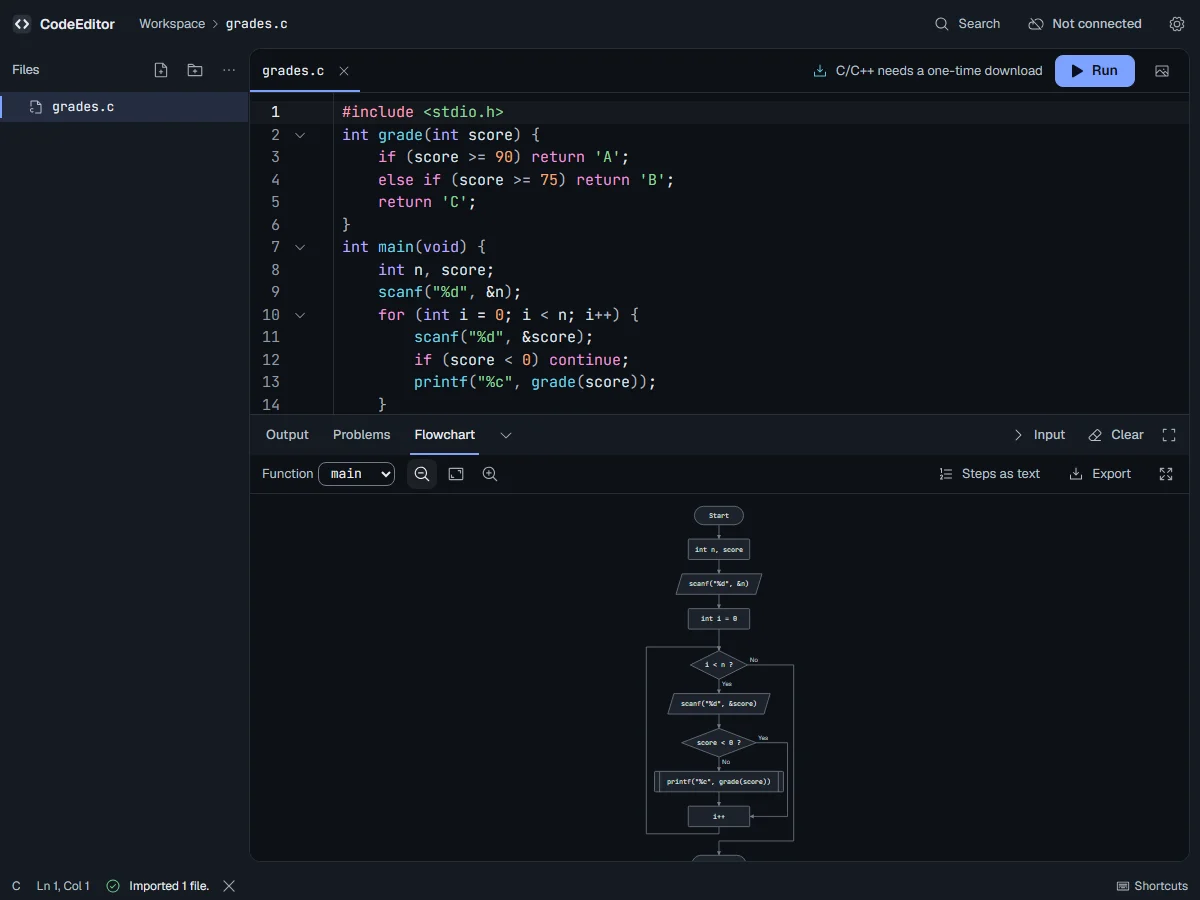
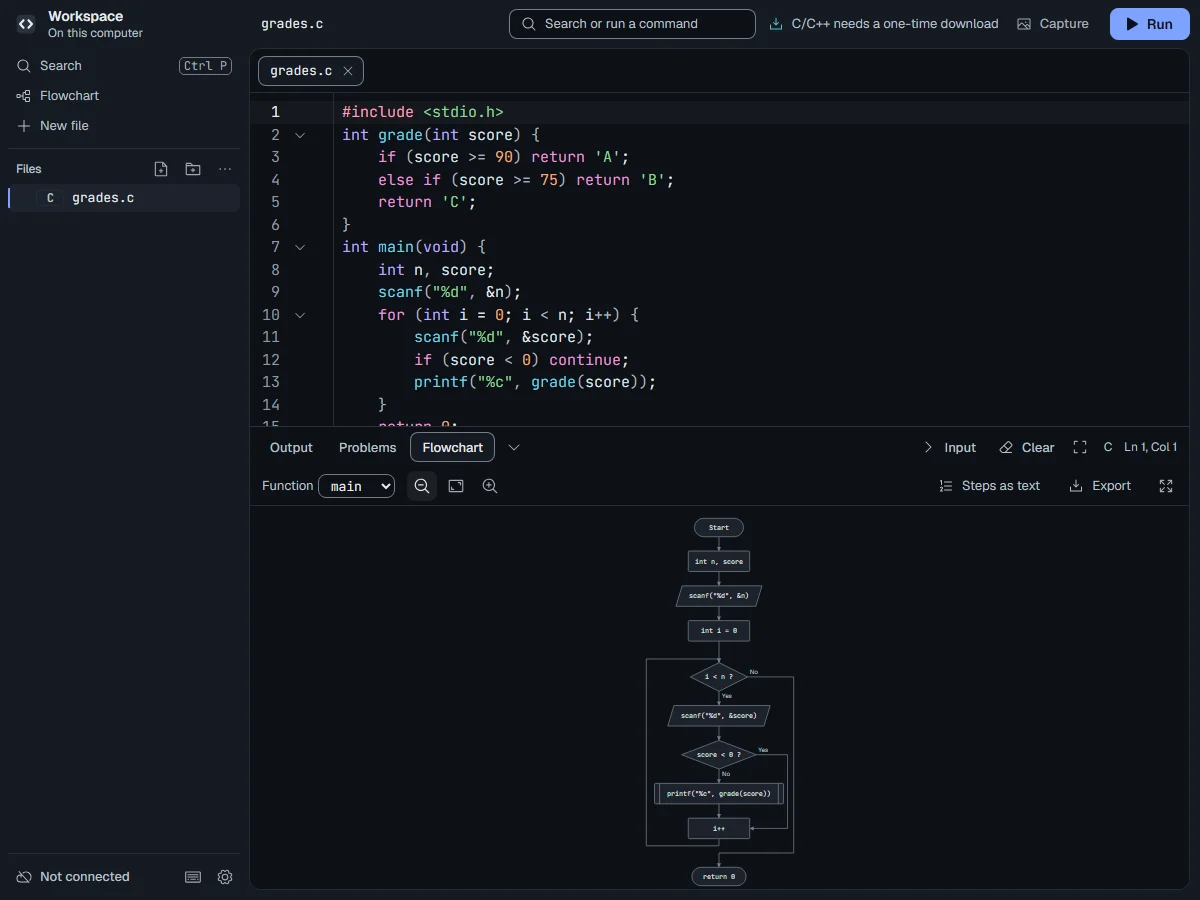
About images from the new shell; the command field's keycap shows from 1280 px so its words fit

diff --git a/src/styles/app.css b/src/styles/app.css
@@ -208,7 +208,9 @@ input::placeholder, textarea::placeholder { color: var(--text-muted); opacity: 1
 .sync-words { overflow: hidden; text-overflow: ellipsis; white-space: nowrap; }
 .drawer-toggle { display: none; }
 .palette-key { display: none; }
-@media (min-width: 900px) { .palette-key { display: inline-block; } }
+/* From 1280 px: under it the keycap cut the field's words short once the breadcrumb kept its room
+   (the shortcut stays in the button's title and aria-keyshortcuts). */
+@media (min-width: 1280px) { .palette-key { display: inline-block; } }
 /* Capture (an image of the selected lines): a ghost button, no edge, before Run; quieter than Run's
    fill and than the stepped-back Run's outline (with a ring of its own and its word it outweighed
    that outline after a failed run). Its icon and word are in the hint tier, the text colour on hover. */

diff --git a/about.html b/about.html
@@ -58,7 +58,7 @@
         <figure class="about-shot">
           <picture>
             <source srcset="/media/about-flowchart-dark.webp" media="(prefers-color-scheme: dark)" />
-            <img src="/media/about-flowchart-light.webp" width="1200" height="900" alt="The CodeEditor window: a C program on the left, and its flowchart below it, with a loop and a decision." loading="lazy" decoding="async" />
+            <img src="/media/about-flowchart-light.webp" width="1200" height="900" alt="The CodeEditor window: a C program, and below it the program's flowchart, with a loop and a decision." loading="lazy" decoding="async" />
           </picture>
         </figure>
       </section>
